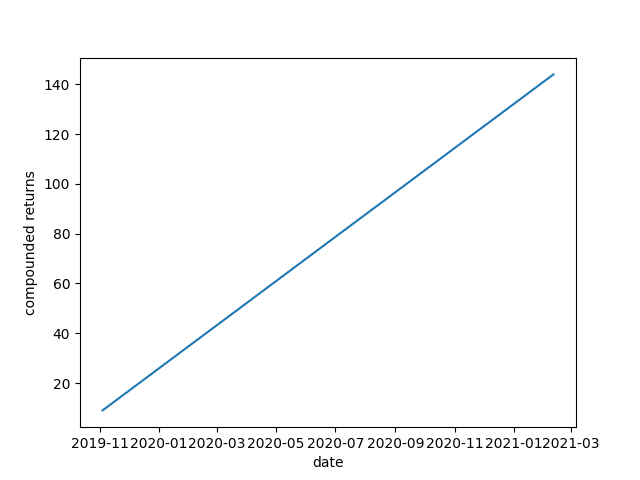
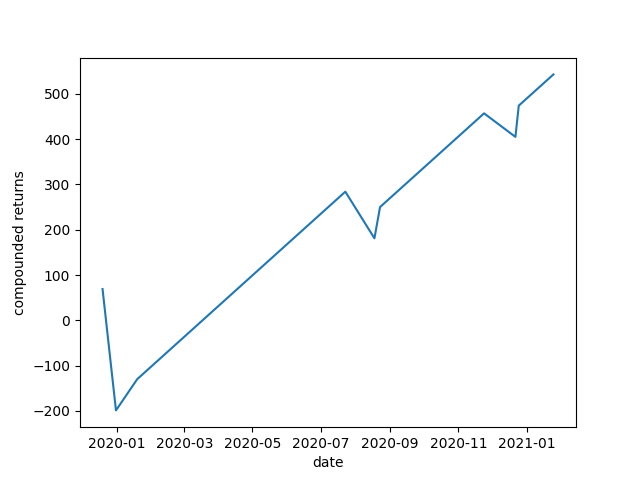
maybe it works now!

diff --git a/analytics.py b/analytics.py
@@ -85,6 +85,8 @@ def plot_user_revenue(user_id):
     month = timedelta(days = 30)
     # print(sign_up_d)
     # print(end_d)
+    print(user_data)
+    print(user_claims)
     while sign_up_d.iloc[0] <= end_d:
         if days < month:
             days += day
@@ -93,8 +95,9 @@ def plot_user_revenue(user_id):
             revenue_data.append([sign_up_d.iloc[0], comp_returns])
             days = timedelta(days = 0)
 
-        if sign_up_d.iloc[0] in user_claims['date'].values:
-            comp_returns -= user_claims['claim_height'].loc[user_claims[user_claims['date']==sign_up_d].index.values].iloc[0]
+        if sign_up_d.iloc[0] in user_claims['date'].values.tolist():
+            print('check!')
+            comp_returns -= user_claims['claim_height'].loc[user_claims[user_claims['date']==sign_up_d.iloc[0]].index.values].iloc[0]
             revenue_data.append([sign_up_d.iloc[0], comp_returns])
 
         sign_up_d = sign_up_d + day
@@ -107,5 +110,5 @@ def plot_user_revenue(user_id):
     plt.savefig('comp_returns_on_user_%s.png' % user_id)
 
 
-plot_user_revenue(666)
+plot_user_revenue(332)
 
